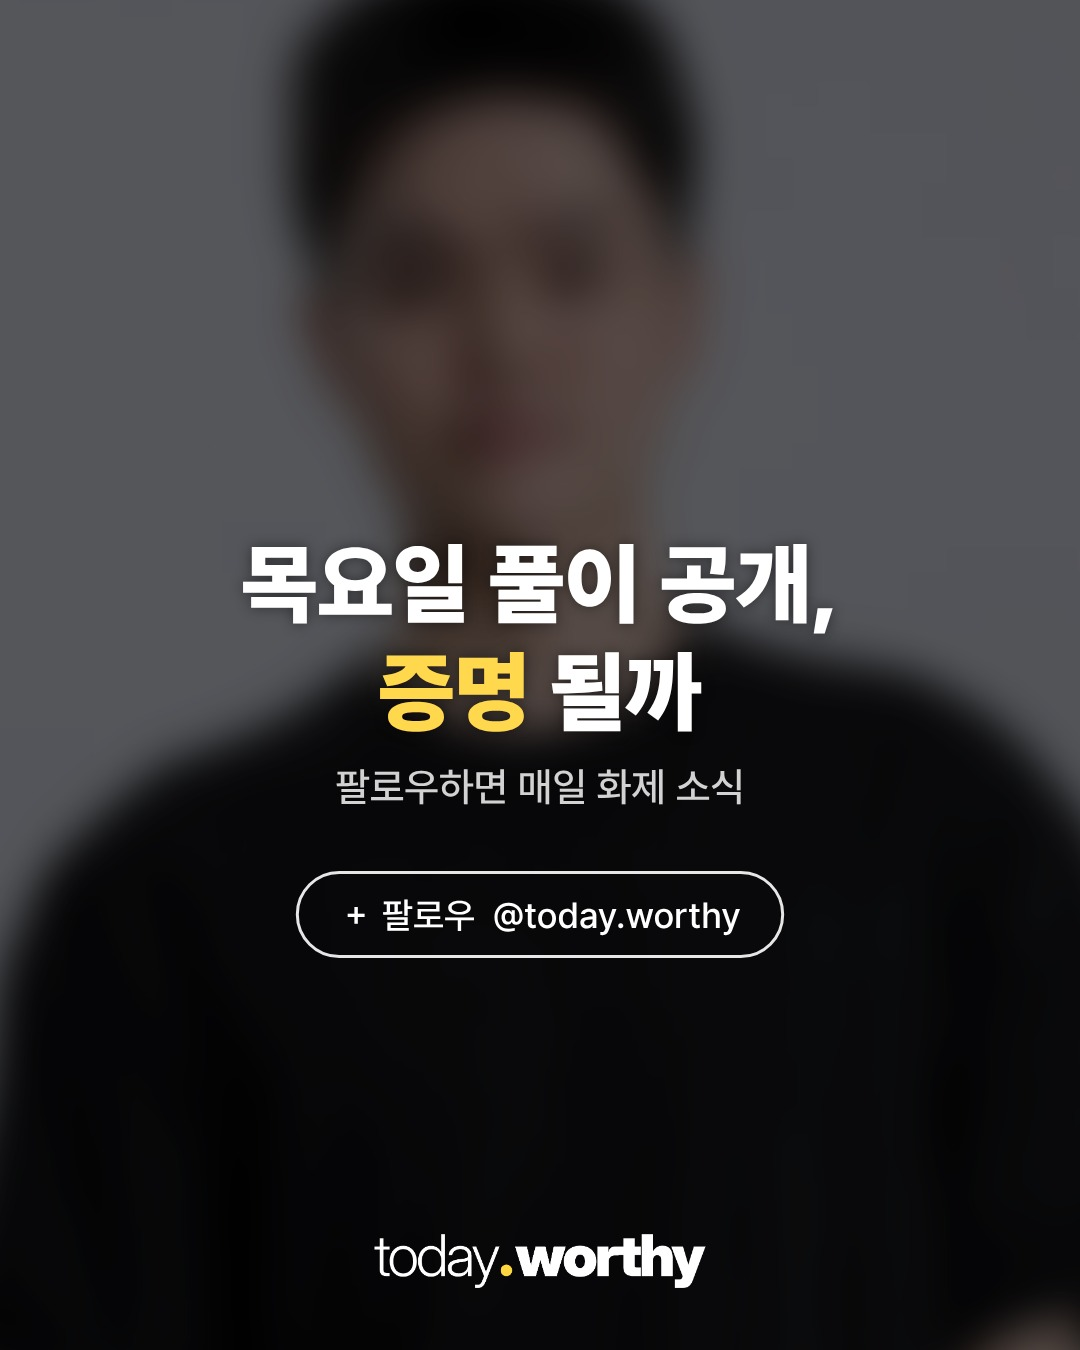
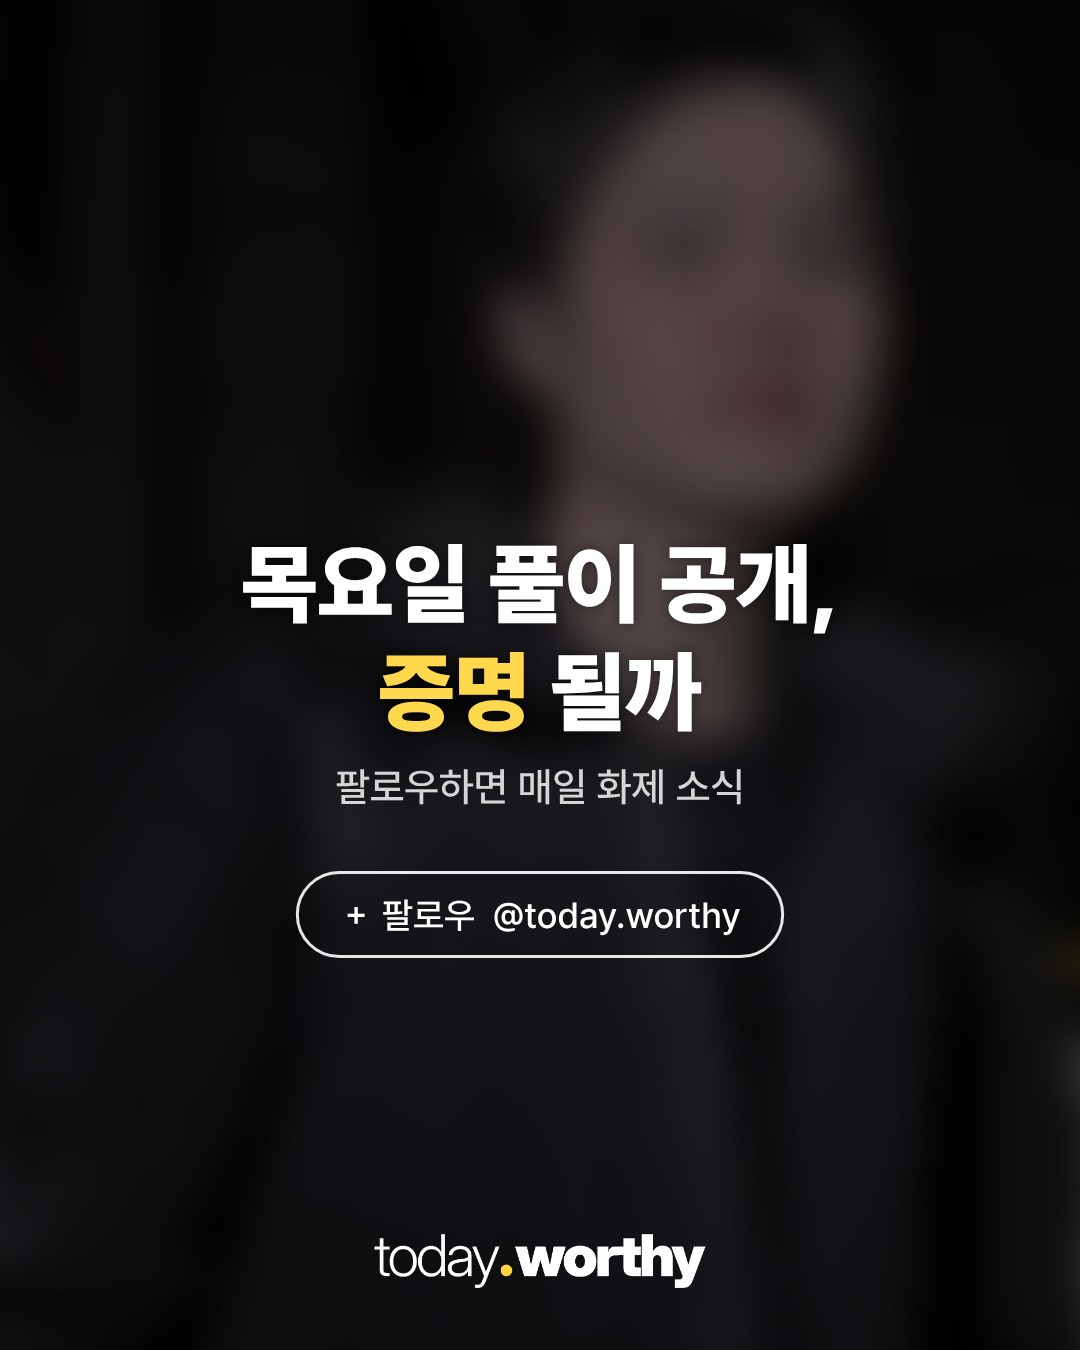
leetint 표지: 기사 속 자택 앞 사진(중앙일보)
Claude-Session: https://claude.ai/code/session_01FGsw5QnWxFUsnopcB1Czie

diff --git a/media/20261117-leetint/build_cards.py b/media/20261117-leetint/build_cards.py
@@ -1,5 +1,5 @@
 """20261117-leetint: 리트 만점자 17일 밤 자택 앞 인터뷰(중앙일보 단독·한국일보) — AI 부정행위 전면 부인, "차라리 수사 받겠다".
-따옴표는 기사에 실린 실제 발언만. 실명 안 씀. 표지 사진: 나무위키 프로필(사용자 제공, jinwoo-ow와 같은 사진)."""
+따옴표는 기사에 실린 실제 발언만. 실명 안 씀. 표지 사진: 기사 속 17일 밤 자택 앞 사진(중앙일보)."""
 import json, re, subprocess, sys
 from pathlib import Path
 from PIL import Image, ImageDraw, ImageFont, ImageFilter, ImageOps, ImageEnhance
@@ -71,5 +71,5 @@ frame(("17일 밤 자택 앞에서 만난 리트 만점자", "의혹 '전면 부
 frame(("시험지 의혹엔 이렇게 답했다", "'확률 희박'은 인정"),
       panel([("25~29번 답 고친 흔적", "\"고민하다 답을 '고른' 거다\""), ("우연일 가능성", "\"확률이 희박하다는 건 '인정한다'\""), ("시험지에 적힌 숫자 '33'", "\"다음 날 '전화통화' 하다 끄적인 것\"")], h=560),
       "스토킹 폭로자엔 '법적 대응' 고려", "부정행위는 아직 확인된 사실이 아닙니다").save(O / "c03.jpg", quality=93)
-fit(op("lee_photo.jpg"), W, H, (.5, .2)).save(O / "cover_bg.jpg", quality=95)
+fit(op("article_photo.jpg"), W, H, (.5, .2)).filter(ImageFilter.UnsharpMask(2, 80, 2)).save(O / "cover_bg.jpg", quality=95)  # 사용자: 기사 속 17일 밤 자택 앞 사진(중앙일보, X 캡처에서)
 print("ok")
